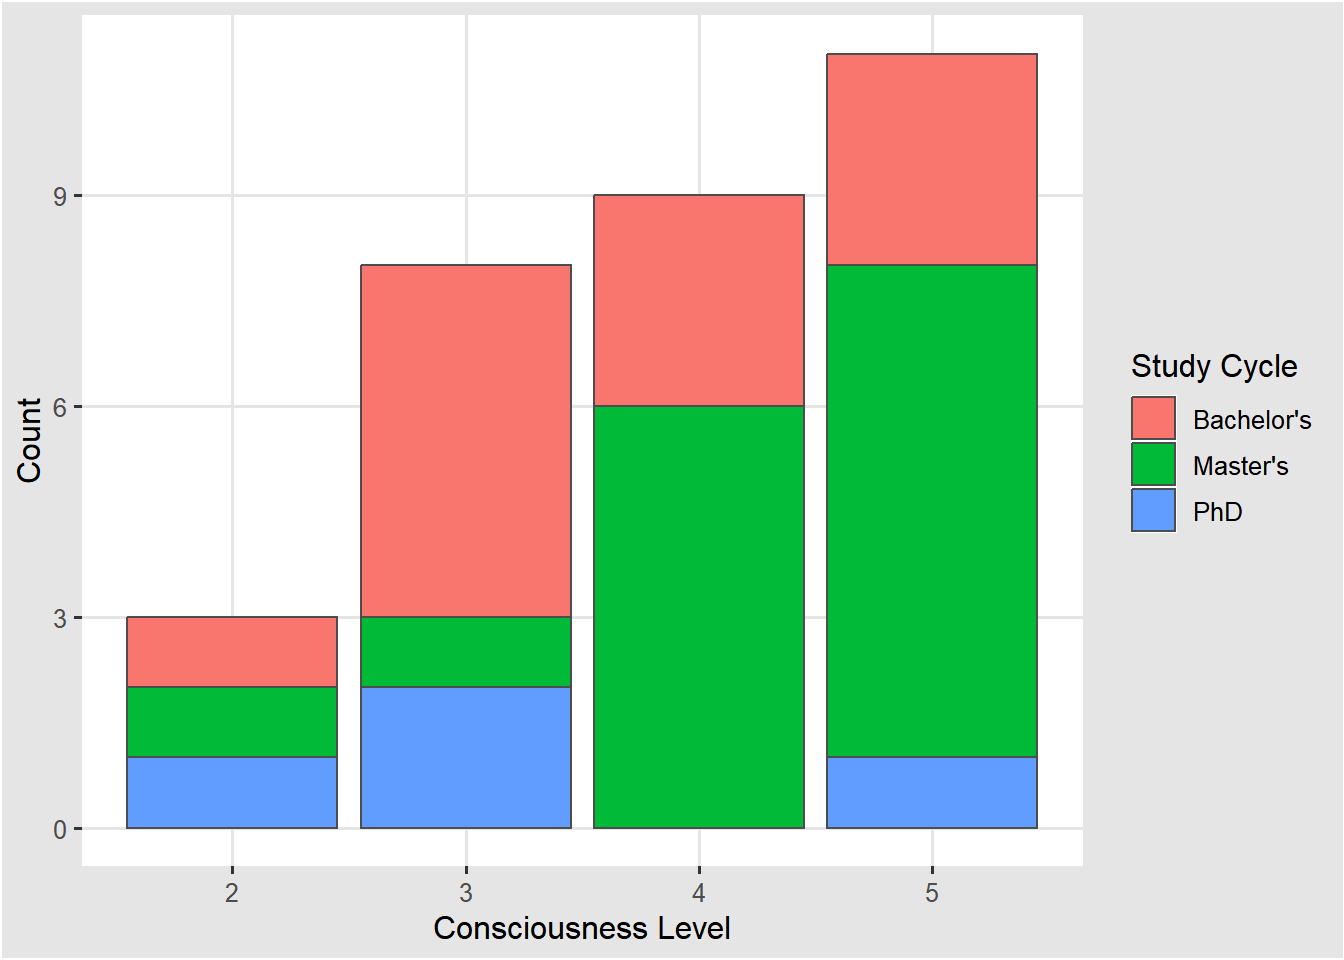
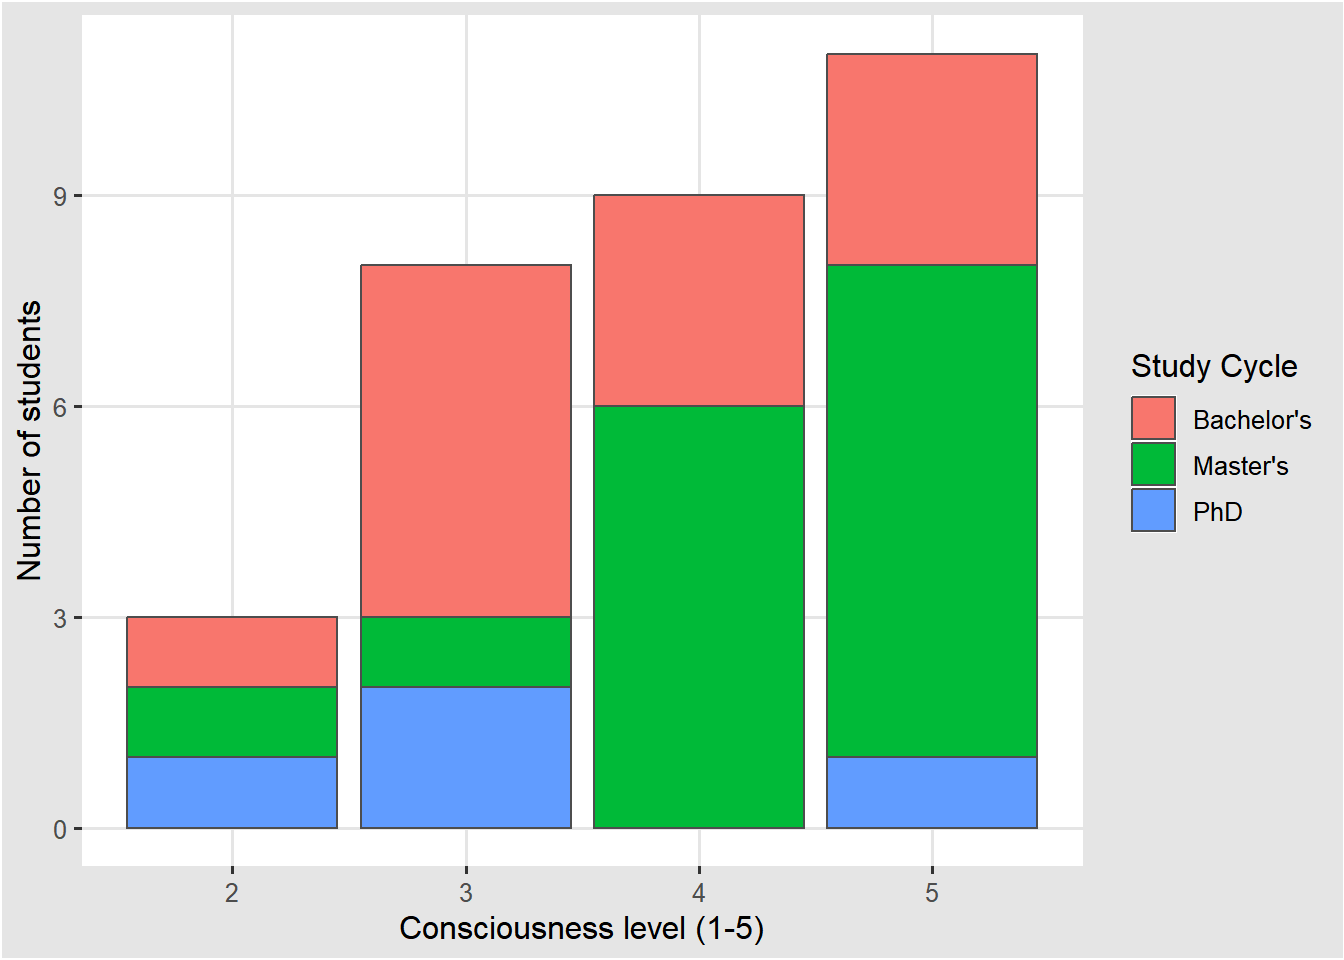
Finalised

Changed region(s): [[0.3125, 0.9375, 0.5625, 1.0], [0.0, 0.3125, 0.0312, 0.625]]

diff --git a/docs/index.html b/docs/index.html
@@ -158,7 +158,7 @@ div.csl-indent {
 <section id="methods" class="level1">
 <h1>Methods</h1>
 <p>Data was collected anonymously using a self-administered online questionnaire created in Google Forms. A total of 31 participants were surveyed by: (1) direct in-person approach, where a QR code for participation was presented to passing students outside on campus on a weekday during the semester over a span of 20 minutes; (2) posters with QR codes displayed on central university notice boards in buildings on both ETH Zurich campuses for 12 days; and (3) digital distribution of a link through a student-specific group chat.<br>
-In all cases, the purpose of the project was explained beforehand, and responses were submitted voluntarily without supervision. The survey was open for responses for 12 days, excluding a prior testing period.</p>
+In all cases, the purpose of the project was explained beforehand, and responses were submitted voluntarily without supervision. The survey was open to responses for 12 days, excluding a prior testing period.</p>
 </section>
 <section id="results" class="level1">
 <h1>Results</h1>
@@ -168,7 +168,7 @@ In all cases, the purpose of the project was explained beforehand, and responses
 <div class="cell">
 <div class="sourceCode cell-code" id="cb3"><pre class="sourceCode r code-with-copy"><code class="sourceCode r"><span id="cb3-1"><a href="#cb3-1" aria-hidden="true" tabindex="-1"></a>consciousness_mean <span class="ot">&lt;-</span> <span class="fu">round</span>(<span class="fu">mean</span>(survey_data<span class="sc">$</span>consciousness), <span class="dv">2</span>)</span></code><button title="Copy to Clipboard" class="code-copy-button"><i class="bi"></i></button></pre></div>
 </div>
-<p>The mean self-reported consciousness of food waste among students is 3.9 on a scale of 1 (not conscious at all) to 5 (very conscious). <a href="#fig-consciousness" class="quarto-xref">Figure&nbsp;1</a> shows the distribution by study cycle. Master’s students reported highest levels of consciousness, while Bachelor’s and PhD students see a peak at 3/5. However, due to the low sample size, especially for PhD students, no clear conclusions can be drawn, suggesting the need for further investigation into the correlation of self-reported consciousness of food waste to study cycle.</p>
+<p>The mean self-reported consciousness of food waste among students was 3.9 on a scale of 1 (not conscious at all) to 5 (very conscious). <a href="#fig-consciousness" class="quarto-xref">Figure&nbsp;1</a> shows the distribution by study cycle. Master’s students reported highest levels of consciousness, while a majority of Bachelor’s and PhD students selected 3 out of 5. However, due to the small sample size, especially for PhD students, no clear conclusions can be drawn, suggesting the need for further investigation into the relationship between study cycle and food waste consciousness.</p>
 <div class="cell">
 <div class="sourceCode cell-code" id="cb4"><pre class="sourceCode r code-with-copy"><code class="sourceCode r"><span id="cb4-1"><a href="#cb4-1" aria-hidden="true" tabindex="-1"></a>consciousness_data <span class="ot">&lt;-</span> survey_data <span class="sc">|&gt;</span> </span>
 <span id="cb4-2"><a href="#cb4-2" aria-hidden="true" tabindex="-1"></a>  <span class="fu">select</span>(consciousness, student_type) <span class="sc">|&gt;</span> </span>
@@ -181,8 +181,8 @@ In all cases, the purpose of the project was explained beforehand, and responses
 <span id="cb4-9"><a href="#cb4-9" aria-hidden="true" tabindex="-1"></a><span class="fu">ggplot</span>(<span class="at">data =</span> consciousness_data, </span>
 <span id="cb4-10"><a href="#cb4-10" aria-hidden="true" tabindex="-1"></a>       <span class="fu">aes</span>(<span class="at">x =</span> consciousness, </span>
 <span id="cb4-11"><a href="#cb4-11" aria-hidden="true" tabindex="-1"></a>           <span class="at">fill =</span> student_type)) <span class="sc">+</span></span>
-<span id="cb4-12"><a href="#cb4-12" aria-hidden="true" tabindex="-1"></a>  <span class="fu">labs</span>(<span class="at">x =</span> <span class="st">"Consciousness Level"</span>,</span>
-<span id="cb4-13"><a href="#cb4-13" aria-hidden="true" tabindex="-1"></a>       <span class="at">y =</span> <span class="st">"Count"</span>,</span>
+<span id="cb4-12"><a href="#cb4-12" aria-hidden="true" tabindex="-1"></a>  <span class="fu">labs</span>(<span class="at">x =</span> <span class="st">"Consciousness level (1-5)"</span>,</span>
+<span id="cb4-13"><a href="#cb4-13" aria-hidden="true" tabindex="-1"></a>       <span class="at">y =</span> <span class="st">"Number of students"</span>,</span>
 <span id="cb4-14"><a href="#cb4-14" aria-hidden="true" tabindex="-1"></a>       <span class="at">fill =</span> <span class="st">"Study Cycle"</span>) <span class="sc">+</span></span>
 <span id="cb4-15"><a href="#cb4-15" aria-hidden="true" tabindex="-1"></a>  <span class="fu">geom_bar</span>(<span class="at">col =</span> <span class="st">"grey30"</span>) <span class="sc">+</span></span>
 <span id="cb4-16"><a href="#cb4-16" aria-hidden="true" tabindex="-1"></a>  <span class="fu">theme_igray</span>() <span class="sc">+</span></span>
@@ -202,7 +202,7 @@ Figure&nbsp;1: Self-reported consciousness of food waste by study cycle
 </div>
 </div>
 </div>
-<p>Sustainability was reported as a motivation to care about food waste by a large majority of students, more frequently than other reasons (<a href="#tbl-motivation" class="quarto-xref">Table&nbsp;1</a>). This suggests that the environmental impact associated with food production is widely recognised and considered an important issue.</p>
+<p>Sustainability was reported as a motivation to care about food waste by a large majority of students, more frequently than other reasons (<a href="#tbl-motivation" class="quarto-xref">Table&nbsp;1</a>). This suggests that the environmental impact associated with food production is widely recognised and considered an important issue among students.</p>
 <div class="cell">
 <div class="sourceCode cell-code" id="cb5"><pre class="sourceCode r code-with-copy"><code class="sourceCode r"><span id="cb5-1"><a href="#cb5-1" aria-hidden="true" tabindex="-1"></a>motivation_data <span class="ot">&lt;-</span> survey_data <span class="sc">|&gt;</span> </span>
 <span id="cb5-2"><a href="#cb5-2" aria-hidden="true" tabindex="-1"></a>  <span class="fu">select</span>(motivation_sustainability, motivation_monetary, motivation_humanitarian, motivation_cultural) <span class="sc">|&gt;</span> </span>
@@ -262,7 +262,7 @@ Table&nbsp;1: Motivation to care about food waste proportion
 </figure>
 </div>
 </div>
-<p>In terms of lunch sources, bringing lunch from home to university was found to be most prevalent, followed by eating in a cafeteria. Buying lunch externally was clearly the least common choice (<a href="#tbl-lunch_source" class="quarto-xref">Table&nbsp;2</a>). When considering food waste the only sources reporting higher than “near none” on food waste are university cafeterias (<a href="#tbl-lunch_waste" class="quarto-xref">Table&nbsp;3</a>). This highlights university cafeteria food waste as a potential point of improvement.</p>
+<p>In terms of lunch sources, bringing lunch from home to university was found to be most prevalent, followed by eating in a cafeteria. Buying lunch externally was the least frequently reported option (<a href="#tbl-lunch_source" class="quarto-xref">Table&nbsp;2</a>). When considering food waste the only sources reporting higher than “near none” on food waste are university cafeterias (<a href="#tbl-lunch_waste" class="quarto-xref">Table&nbsp;3</a>). This highlights university cafeteria food waste as a potential point of improvement.</p>
 <div class="cell">
 <div class="sourceCode cell-code" id="cb6"><pre class="sourceCode r code-with-copy"><code class="sourceCode r"><span id="cb6-1"><a href="#cb6-1" aria-hidden="true" tabindex="-1"></a>lunch_source_data <span class="ot">&lt;-</span> survey_data <span class="sc">|&gt;</span> </span>
 <span id="cb6-2"><a href="#cb6-2" aria-hidden="true" tabindex="-1"></a>  <span class="fu">filter</span>(<span class="sc">!</span><span class="fu">is.na</span>(days_uni)) <span class="sc">|&gt;</span> </span>
@@ -347,8 +347,7 @@ Table&nbsp;3: Average self-reported waste by lunch source (1-5)
 </figure>
 </div>
 </div>
-<p>To further investigate the reasons behind higher food waste in university cafeterias compared to other sources of lunch, students were presented with different scenarios and asked to choose their most likely approach to leftover food. Throwing food away was the least common choice, both in the case of eating lunch in a university cafeteria alone and eating with a friend. However, when eating alone, throwing leftovers away became more prevalent (<a href="#fig-scenarios" class="quarto-xref">Figure&nbsp;2</a>). This suggests that students choose not to take leftovers home if possible, but are more likely to when faced with wasting food.</p>
-<p><a href="#fig-encouragement" class="quarto-xref">Figure&nbsp;3</a> shows that there is potential to increase the willingness to take leftovers home and thus reduce food waste. Most students reported that having either their own reusable containers or having access to such would make them more likely to take leftovers home.</p>
+<p>To further investigate the reasons behind higher food waste in university cafeterias compared to other sources of lunch, students were presented with different scenarios and asked to choose their most likely approach to leftover food. Throwing away leftover food was the least common choice in both scenarios, eating lunch in a university cafeteria alone and eating with a friend. However, when eating alone, throwing leftovers away became more prevalent (<a href="#fig-scenarios" class="quarto-xref">Figure&nbsp;2</a>). This suggests that students choose not to take leftovers home if possible, but are more likely to when faced with wasting food.</p>
 <div class="cell">
 <div class="sourceCode cell-code" id="cb8"><pre class="sourceCode r code-with-copy"><code class="sourceCode r"><span id="cb8-1"><a href="#cb8-1" aria-hidden="true" tabindex="-1"></a>scenario_data <span class="ot">&lt;-</span> survey_data <span class="sc">|&gt;</span> </span>
 <span id="cb8-2"><a href="#cb8-2" aria-hidden="true" tabindex="-1"></a>  <span class="fu">select</span>(scenario_lunch_alone, scenario_lunch_friend) <span class="sc">|&gt;</span> </span>
@@ -370,10 +369,9 @@ Table&nbsp;3: Average self-reported waste by lunch source (1-5)
 <span id="cb8-18"><a href="#cb8-18" aria-hidden="true" tabindex="-1"></a>       <span class="at">y =</span> <span class="st">"Number of students"</span>) <span class="sc">+</span></span>
 <span id="cb8-19"><a href="#cb8-19" aria-hidden="true" tabindex="-1"></a>  <span class="fu">geom_bar</span>(<span class="at">fill =</span> <span class="st">"#377EB8"</span>, <span class="at">col =</span> <span class="st">"grey30"</span>) <span class="sc">+</span></span>
 <span id="cb8-20"><a href="#cb8-20" aria-hidden="true" tabindex="-1"></a>  <span class="fu">theme_igray</span>() <span class="sc">+</span></span>
-<span id="cb8-21"><a href="#cb8-21" aria-hidden="true" tabindex="-1"></a>  <span class="fu">theme</span>(<span class="at">axis.text.x =</span> <span class="fu">element_text</span>(<span class="at">angle =</span> <span class="dv">45</span>, <span class="at">hjust =</span> <span class="dv">1</span>)) <span class="sc">+</span></span>
-<span id="cb8-22"><a href="#cb8-22" aria-hidden="true" tabindex="-1"></a>  <span class="fu">scale_color_colorblind</span>()</span>
-<span id="cb8-23"><a href="#cb8-23" aria-hidden="true" tabindex="-1"></a></span>
-<span id="cb8-24"><a href="#cb8-24" aria-hidden="true" tabindex="-1"></a><span class="fu">write_csv</span>(scenario_data, here<span class="sc">::</span><span class="fu">here</span>(<span class="st">"data/final/fig-scenarios.csv"</span>))</span></code><button title="Copy to Clipboard" class="code-copy-button"><i class="bi"></i></button></pre></div>
+<span id="cb8-21"><a href="#cb8-21" aria-hidden="true" tabindex="-1"></a>  <span class="fu">scale_color_colorblind</span>()</span>
+<span id="cb8-22"><a href="#cb8-22" aria-hidden="true" tabindex="-1"></a></span>
+<span id="cb8-23"><a href="#cb8-23" aria-hidden="true" tabindex="-1"></a><span class="fu">write_csv</span>(scenario_data, here<span class="sc">::</span><span class="fu">here</span>(<span class="st">"data/final/fig-scenarios.csv"</span>))</span></code><button title="Copy to Clipboard" class="code-copy-button"><i class="bi"></i></button></pre></div>
 <div class="cell-output-display">
 <div id="fig-scenarios" class="quarto-float quarto-figure quarto-figure-center anchored">
 <figure class="quarto-float quarto-float-fig figure">
@@ -387,6 +385,7 @@ Figure&nbsp;2: Leftover food scenarios
 </div>
 </div>
 </div>
+<p><a href="#fig-encouragement" class="quarto-xref">Figure&nbsp;3</a> shows that there is potential to increase the willingness to take leftovers home when eating in university cafeterias and thus reduce food waste. Most students reported that having either their own reusable containers or having access to such would make them more likely to take leftovers home. This may reflect that, although reusable containers are widely available at ETH Zurich cafeterias, the system does not actively encourage their use for leftovers or that knowledge of its existence is not widespread.</p>
 <div class="cell">
 <div class="sourceCode cell-code" id="cb9"><pre class="sourceCode r code-with-copy"><code class="sourceCode r"><span id="cb9-1"><a href="#cb9-1" aria-hidden="true" tabindex="-1"></a>encouragement_data <span class="ot">&lt;-</span> survey_data <span class="sc">|&gt;</span> </span>
 <span id="cb9-2"><a href="#cb9-2" aria-hidden="true" tabindex="-1"></a>  <span class="fu">select</span>(encouragement) <span class="sc">|&gt;</span> </span>
@@ -422,6 +421,7 @@ Figure&nbsp;3: Methods to encourage food waste reduction
 </div>
 </div>
 </div>
+<p>Further, less than half of students ask for adjusted portion sizes according to their level of hunger in university cafeterias (<a href="#fig-portions" class="quarto-xref">Figure&nbsp;4</a>). The low numbers for large and second portions could be attributed to internal cafeteria policies limiting responsiveness to such requests, while for small portion sizes, the cause cannot be directly inferred from the data collected. However, portion size variation presents a further potential opportunity for reduced food waste.</p>
 <div class="cell">
 <div class="sourceCode cell-code" id="cb10"><pre class="sourceCode r code-with-copy"><code class="sourceCode r"><span id="cb10-1"><a href="#cb10-1" aria-hidden="true" tabindex="-1"></a>portions_data <span class="ot">&lt;-</span> survey_data <span class="sc">|&gt;</span> </span>
 <span id="cb10-2"><a href="#cb10-2" aria-hidden="true" tabindex="-1"></a>  <span class="fu">select</span>(portion_small, portion_large, portion_second) <span class="sc">|&gt;</span> </span>
@@ -445,7 +445,7 @@ Figure&nbsp;3: Methods to encourage food waste reduction
 <span id="cb10-20"><a href="#cb10-20" aria-hidden="true" tabindex="-1"></a>  <span class="fu">labs</span>(<span class="at">x =</span> <span class="st">"Choice"</span>,</span>
 <span id="cb10-21"><a href="#cb10-21" aria-hidden="true" tabindex="-1"></a>       <span class="at">y =</span> <span class="st">"Number of students"</span>)</span>
 <span id="cb10-22"><a href="#cb10-22" aria-hidden="true" tabindex="-1"></a></span>
-<span id="cb10-23"><a href="#cb10-23" aria-hidden="true" tabindex="-1"></a><span class="fu">write_csv</span>(encouragement_data, here<span class="sc">::</span><span class="fu">here</span>(<span class="st">"data/final/fig-portions.csv"</span>))</span></code><button title="Copy to Clipboard" class="code-copy-button"><i class="bi"></i></button></pre></div>
+<span id="cb10-23"><a href="#cb10-23" aria-hidden="true" tabindex="-1"></a><span class="fu">write_csv</span>(portions_data, here<span class="sc">::</span><span class="fu">here</span>(<span class="st">"data/final/fig-portions.csv"</span>))</span></code><button title="Copy to Clipboard" class="code-copy-button"><i class="bi"></i></button></pre></div>
 <div class="cell-output-display">
 <div id="fig-portions" class="quarto-float quarto-figure quarto-figure-center anchored">
 <figure class="quarto-float quarto-float-fig figure">
@@ -459,62 +459,14 @@ Figure&nbsp;4: Portion choice in cafeterias
 </div>
 </div>
 </div>
-<div class="cell">
-<div class="sourceCode cell-code" id="cb11"><pre class="sourceCode r code-with-copy"><code class="sourceCode r"><span id="cb11-1"><a href="#cb11-1" aria-hidden="true" tabindex="-1"></a>avoidance_data <span class="ot">&lt;-</span> survey_data <span class="sc">|&gt;</span> </span>
-<span id="cb11-2"><a href="#cb11-2" aria-hidden="true" tabindex="-1"></a>  <span class="fu">select</span>(food_avoidance) <span class="sc">|&gt;</span> </span>
-<span id="cb11-3"><a href="#cb11-3" aria-hidden="true" tabindex="-1"></a>  <span class="fu">count</span>(food_avoidance) <span class="sc">|&gt;</span> </span>
-<span id="cb11-4"><a href="#cb11-4" aria-hidden="true" tabindex="-1"></a>  <span class="fu">rename</span>(<span class="st">"Avoidance"</span> <span class="ot">=</span> <span class="st">"food_avoidance"</span>,</span>
-<span id="cb11-5"><a href="#cb11-5" aria-hidden="true" tabindex="-1"></a>         <span class="st">"Number of students"</span> <span class="ot">=</span> <span class="st">"n"</span>) <span class="sc">|&gt;</span> </span>
-<span id="cb11-6"><a href="#cb11-6" aria-hidden="true" tabindex="-1"></a>  <span class="fu">mutate</span>(<span class="at">Avoidance =</span> <span class="fu">case_when</span>(</span>
-<span id="cb11-7"><a href="#cb11-7" aria-hidden="true" tabindex="-1"></a>    Avoidance <span class="sc">==</span> <span class="st">"yes"</span> <span class="sc">~</span> <span class="st">"Yes"</span>,</span>
-<span id="cb11-8"><a href="#cb11-8" aria-hidden="true" tabindex="-1"></a>    Avoidance <span class="sc">==</span> <span class="st">"sometimes"</span> <span class="sc">~</span> <span class="st">"Sometimes"</span>,</span>
-<span id="cb11-9"><a href="#cb11-9" aria-hidden="true" tabindex="-1"></a>    Avoidance <span class="sc">==</span> <span class="st">"no"</span> <span class="sc">~</span> <span class="st">"No"</span>,</span>
-<span id="cb11-10"><a href="#cb11-10" aria-hidden="true" tabindex="-1"></a>  ))</span>
-<span id="cb11-11"><a href="#cb11-11" aria-hidden="true" tabindex="-1"></a></span>
-<span id="cb11-12"><a href="#cb11-12" aria-hidden="true" tabindex="-1"></a>avoidance_data <span class="sc">|&gt;</span> </span>
-<span id="cb11-13"><a href="#cb11-13" aria-hidden="true" tabindex="-1"></a>  knitr<span class="sc">::</span><span class="fu">kable</span>(<span class="at">digits =</span> <span class="dv">0</span>)</span>
-<span id="cb11-14"><a href="#cb11-14" aria-hidden="true" tabindex="-1"></a><span class="fu">write_csv</span>(avoidance_data, here<span class="sc">::</span><span class="fu">here</span>(<span class="st">"data/final/tbl-avoidance.csv"</span>))</span></code><button title="Copy to Clipboard" class="code-copy-button"><i class="bi"></i></button></pre></div>
-<div id="tbl-avoidance" class="cell quarto-float quarto-figure quarto-figure-center anchored">
-<figure class="quarto-float quarto-float-tbl figure">
-<figcaption class="quarto-float-caption-top quarto-float-caption quarto-float-tbl" id="tbl-avoidance-caption-0ceaefa1-69ba-4598-a22c-09a6ac19f8ca">
-Table&nbsp;4: Avoidance of dislikes in cafeteria food
-</figcaption>
-<div aria-describedby="tbl-avoidance-caption-0ceaefa1-69ba-4598-a22c-09a6ac19f8ca">
-<div class="cell-output-display">
-<table class="do-not-create-environment cell caption-top table table-sm table-striped small">
-<thead>
-<tr class="header">
-<th style="text-align: left;">Avoidance</th>
-<th style="text-align: right;">Number of students</th>
-</tr>
-</thead>
-<tbody>
-<tr class="odd">
-<td style="text-align: left;">No</td>
-<td style="text-align: right;">7</td>
-</tr>
-<tr class="even">
-<td style="text-align: left;">Sometimes</td>
-<td style="text-align: right;">5</td>
-</tr>
-<tr class="odd">
-<td style="text-align: left;">Yes</td>
-<td style="text-align: right;">19</td>
-</tr>
-</tbody>
-</table>
-</div>
-</div>
-</figure>
-</div>
-</div>
 </section>
 <section id="conclusions" class="level1">
 <h1>Conclusions</h1>
 <ul>
-<li><p>Students report high levels of consciousness of food waste, with the vast majority considering sustainability as a motivation</p></li>
-<li><p>University cafeterias are a common sources of weekday lunch in university and lead to more food waste than other sources</p></li>
-<li></li>
+<li><p>Students report high levels of consciousness of food waste, with 94% considering sustainability as a motivation</p></li>
+<li><p>University cafeterias are a common source of lunch on weekdays and contribute to more waste than other sources</p></li>
+<li><p>Strategies to lower food waste such as sharing or taking home leftovers are widely used by students</p></li>
+<li><p>Better access to reusable containers for leftovers and encouragement of portion size variation in university cafeterias show potential for reduction of food waste</p></li>
 </ul>
 </section>
 <section id="references" class="level1 unnumbered">
